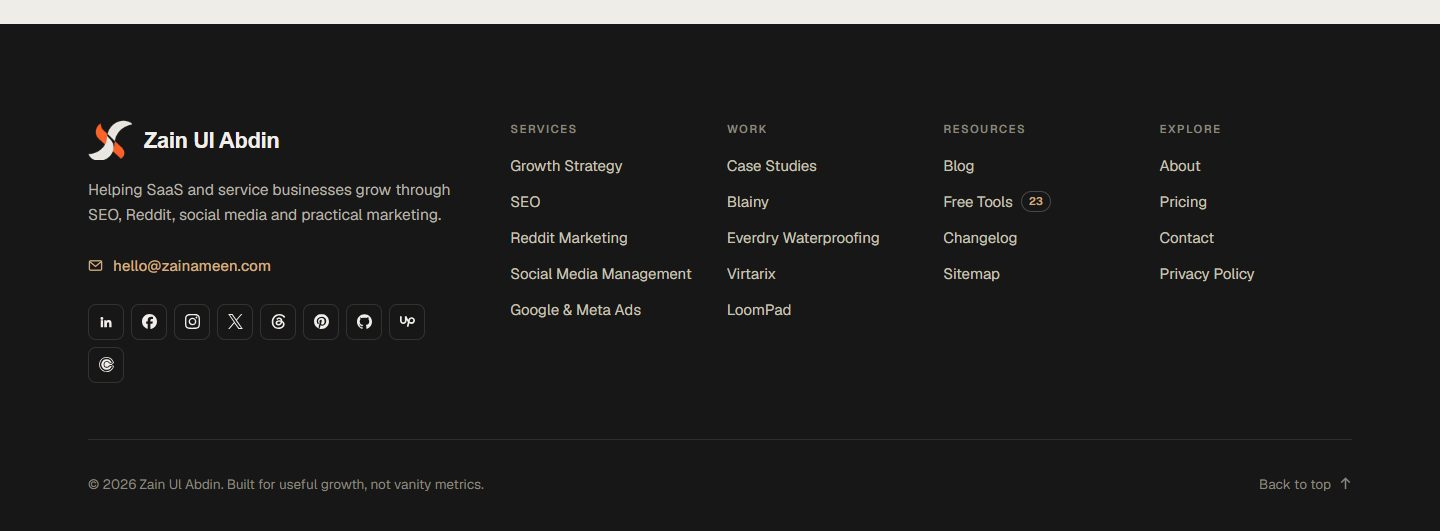
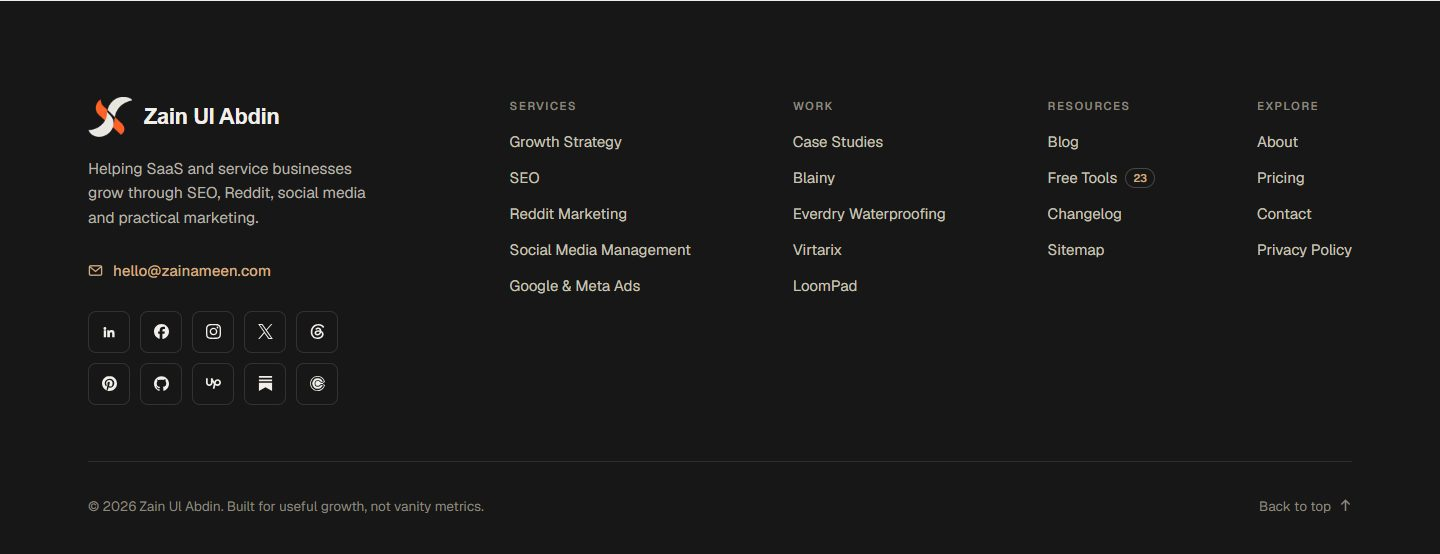
Footer: even columns, three line intro, 5 by 5 socials with Substack. Changelog: full images in the list, auto load on scroll, fresh screenshots

diff --git a/app/HomeComponents/Footer.tsx b/app/HomeComponents/Footer.tsx
@@ -57,6 +57,7 @@ const SOCIALS: { t: string; href: string; kind: "in" | "mail" | "icon"; icon?: s
   { t: "Pinterest", href: "https://www.pinterest.com/zainameenn", kind: "icon", icon: "pinterest" },
   { t: "GitHub", href: "https://github.com/zainameenn", kind: "icon", icon: "github" },
   { t: "Upwork", href: "https://www.upwork.com/freelancers/~0135cf0916aa8d26bf", kind: "icon", icon: "upwork" },
+  { t: "Substack", href: "https://substack.com/@zainameen", kind: "icon", icon: "substack" },
   { t: "Calendly", href: "https://calendly.com/zain-ameen/30min", kind: "icon", icon: "calendly" },
   { t: "Email", href: "mailto:hello@zainameen.com", kind: "mail" },
 ];
@@ -68,9 +69,9 @@ export default function Footer() {
     <footer style={{ background: "#171717", color: "#F2EFEA", overflow: "hidden" }}>
       <style>{`.footer-link{color:#C9C4BA;transition:color 150ms}.footer-link:hover{color:#F2EFEA}.footer-link:focus-visible,.footer-social:focus-visible{outline:2px solid #D3AE82;outline-offset:3px;border-radius:4px}.footer-social{transition:border-color 150ms}.footer-social:hover{border-color:#8B877F}`}</style>
       <div style={{ maxWidth: 1360, margin: "0 auto", padding: "clamp(64px,7vw,96px) clamp(20px,4vw,48px) 0" }}>
-        <div style={{ display: "grid", gap: "48px clamp(32px,4vw,64px)", alignItems: "start", paddingBottom: "clamp(40px,5vw,56px)", borderBottom: "1px solid #2F2E2B" }} className="lg:grid-cols-[minmax(0,1.3fr)_minmax(0,3fr)]">
+        <div style={{ display: "grid", gap: "48px clamp(32px,4vw,64px)", alignItems: "start", paddingBottom: "clamp(40px,5vw,56px)", borderBottom: "1px solid #2F2E2B" }} className="lg:grid-cols-[auto_minmax(0,1fr)]">
           {/* Brand */}
-          <div style={{ display: "flex", flexDirection: "column", alignItems: "flex-start", gap: 18, maxWidth: 400 }}>
+          <div style={{ display: "flex", flexDirection: "column", alignItems: "flex-start", gap: 20 }}>
             <Link href="/" aria-label="Zain Ul Abdin, home" style={{ display: "flex", alignItems: "center", gap: 12 }}>
               {/* logo-dark.png has empty space around the mark; this window crops to the mark. */}
               <span style={{ position: "relative", display: "block", width: 44, height: 40, overflow: "hidden", flex: "0 0 auto" }}>
@@ -78,12 +79,18 @@ export default function Footer() {
               </span>
               <span style={{ fontFamily: "var(--nf-general-sans)", fontSize: 22, fontWeight: 600, letterSpacing: "-0.02em" }}>Zain Ul Abdin</span>
             </Link>
-            <p style={{ margin: 0, fontSize: 15.5, lineHeight: 1.6, color: "#B7B2A8" }}>Helping SaaS and service businesses grow through SEO, Reddit, social media and practical marketing.</p>
+            <p style={{ margin: 0, fontSize: 15.5, lineHeight: 1.6, color: "#B7B2A8" }}>
+              Helping SaaS and service businesses
+              <br />
+              grow through SEO, Reddit, social media
+              <br />
+              and practical marketing.
+            </p>
             <a href="mailto:hello@zainameen.com" className="footer-link" style={{ display: "inline-flex", alignItems: "center", gap: 10, minHeight: 40, fontSize: 15, fontWeight: 500, color: "#D3AE82" }}>
               <MailIcon size={15} color="#D3AE82" />
               hello@zainameen.com
             </a>
-            <div style={{ display: "flex", flexWrap: "wrap", gap: 7 }} aria-label="Social profiles">
+            <div style={{ display: "grid", gridTemplateColumns: "repeat(5, 42px)", gap: 10 }} aria-label="Social profiles">
               {SOCIALS.filter((so) => so.kind !== "mail").map((so) => (
                 <a
                   key={so.t}
@@ -92,8 +99,8 @@ export default function Footer() {
                   rel="noreferrer"
                   aria-label={so.t}
                   title={so.t}
-                  className="footer-social max-md:!h-11 max-md:!w-11"
-                  style={{ width: 36, height: 36, borderRadius: 8, border: "1px solid #33322F", display: "flex", alignItems: "center", justifyContent: "center" }}
+                  className="footer-social"
+                  style={{ width: 42, height: 42, borderRadius: 8, border: "1px solid #33322F", display: "flex", alignItems: "center", justifyContent: "center" }}
                 >
                   {so.kind === "in" ? <LinkedInIcon size={14} color="#F2EFEA" /> : <Img src={`/icons/${so.icon}-F2EFEA.svg`} alt="" aria-hidden="true" width={15} height={15} style={{ display: "block", width: 15, height: 15, objectFit: "contain" }} />}
                 </a>
@@ -102,7 +109,7 @@ export default function Footer() {
           </div>
 
           {/* Link groups: four columns on desktop and tablet, two on phones */}
-          <nav aria-label="Footer" style={{ display: "grid", gap: "36px 24px" }} className="grid-cols-2 md:grid-cols-4">
+          <nav aria-label="Footer" style={{ display: "grid", gap: "36px 24px" }} className="grid-cols-2 md:grid-cols-[repeat(4,max-content)] md:justify-between lg:pl-[clamp(32px,6vw,120px)]">
             {FOOT_GROUPS.map((g) => (
               <div key={g.h}>
                 <h2 style={HEADING_STYLE}>{g.h}</h2>

diff --git a/app/changelog/_components/ChangelogList.tsx b/app/changelog/_components/ChangelogList.tsx
@@ -2,7 +2,7 @@
 
 import Image from "next/image";
 import Link from "next/link";
-import { useId, useMemo, useState } from "react";
+import { useEffect, useId, useMemo, useRef, useState } from "react";
 import s from "../changelog.module.css";
 
 // Category filters, search and Load More, all in the browser. The page passes summaries only, never full articles.
@@ -27,6 +27,7 @@ export function ChangelogList({ items, categories }: { items: ListItem[]; catego
   const [q, setQ] = useState("");
   const [shown, setShown] = useState(PAGE);
   const searchId = useId();
+  const sentinel = useRef<HTMLDivElement>(null);
 
   const filtered = useMemo(() => {
     const words = q.toLowerCase().split(/\s+/).filter(Boolean);
@@ -35,6 +36,19 @@ export function ChangelogList({ items, categories }: { items: ListItem[]; catego
 
   const counts = useMemo(() => Object.fromEntries(categories.map((c) => [c.id, items.filter((i) => i.category === c.id).length])), [items, categories]);
   const visible = filtered.slice(0, shown);
+  const hasMore = filtered.length > shown;
+
+  // Load the next batch automatically as the reader gets near the end of the list.
+  // The button stays as a fallback for keyboards and browsers without IntersectionObserver.
+  useEffect(() => {
+    const el = sentinel.current;
+    if (!el || !hasMore || typeof IntersectionObserver === "undefined") return;
+    const io = new IntersectionObserver((entries) => {
+      if (entries.some((e) => e.isIntersecting)) setShown((n) => n + PAGE);
+    }, { rootMargin: "600px 0px" });
+    io.observe(el);
+    return () => io.disconnect();
+  }, [hasMore, shown]);
 
   return (
     <div className={s.listWrap}>
@@ -109,8 +123,8 @@ export function ChangelogList({ items, categories }: { items: ListItem[]; catego
         <p className={s.empty}>No updates match that. Try another word or category.</p>
       )}
 
-      {filtered.length > shown ? (
-        <div className={s.more}>
+      {hasMore ? (
+        <div className={s.more} ref={sentinel}>
           <button type="button" className={s.moreBtn} onClick={() => setShown((n) => n + PAGE)}>
             Load more updates
             <span className={s.filterCount}>{filtered.length - shown} more</span>

diff --git a/app/changelog/changelog.module.css b/app/changelog/changelog.module.css
@@ -190,8 +190,8 @@
   width: 100%;
   height: auto;
   aspect-ratio: 16 / 9;
-  object-fit: cover;
-  object-position: top;
+  object-fit: contain;
+  object-position: center;
   transition: transform 300ms ease;
 }
 .thumb:hover img {
